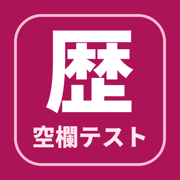
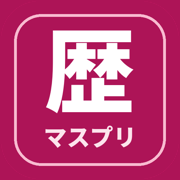
Add files via upload

Changed region(s): [[0.1667, 0.6944, 0.8056, 0.8333]]

diff --git a/rekishi-kuran.html b/rekishi-kuran.html
@@ -9,9 +9,9 @@
 <link rel="apple-touch-icon" href="apple-touch-icon.png">
 <meta name="apple-mobile-web-app-capable" content="yes">
 <meta name="mobile-web-app-capable" content="yes">
-<meta name="apple-mobile-web-app-title" content="歴史空欄テスト">
+<meta name="apple-mobile-web-app-title" content="歴史マスプリ">
 <meta name="apple-mobile-web-app-status-bar-style" content="default">
-<title>歴史マスター空欄テスト</title>
+<title>歴史マスプリテスト</title>
 <link rel="preconnect" href="https://fonts.googleapis.com">
 <link rel="preconnect" href="https://fonts.gstatic.com" crossorigin>
 <link href="https://fonts.googleapis.com/css2?family=Zen+Kaku+Gothic+New:wght@400;500;700;900&family=Zen+Maru+Gothic:wght@700;900&display=swap" rel="stylesheet">
@@ -395,7 +395,7 @@
 <!-- ===== トップ（範囲選択） ===== -->
 <section id="screen-setup">
   <div class="ui-panel">
-    <div class="ui-header-main round">🌸 学習空間 歴史マスターテスト（空欄式） 🌸</div>
+    <div class="ui-header-main round">🌸 学習空間 歴史マスプリテスト 🌸</div>
 
     <div class="action-section">
       <div class="opt-box">
@@ -412,6 +412,13 @@
           <input type="radio" name="tLimit" id="tl0" value="0" checked><label for="tl0">マイペース</label>
           <input type="radio" name="tLimit" id="tl30" value="30"><label for="tl30">30秒</label>
           <input type="radio" name="tLimit" id="tl20" value="20"><label for="tl20">20秒</label>
+        </div>
+      </div>
+      <div class="opt-box">
+        <div class="opt-title">出題順</div>
+        <div class="seg">
+          <input type="radio" name="qOrder" id="qoRand" value="random" checked><label for="qoRand">ランダム</label>
+          <input type="radio" name="qOrder" id="qoSeq" value="seq"><label for="qoSeq">順通り</label>
         </div>
       </div>
       <div class="side-row">
@@ -457,7 +464,7 @@
 <section id="screen-sheet" hidden>
   <div class="sheet-shell">
     <div class="sheet-head">
-      <h2 class="sheet-title" id="sheetTitle">歴史マスターテスト（空欄式）</h2>
+      <h2 class="sheet-title" id="sheetTitle">歴史マスプリテスト</h2>
       <div class="sheet-meta" id="sheetMeta"></div>
     </div>
     <div class="weak-box" id="weakBox" hidden></div>
@@ -550,7 +557,7 @@ const $ = id => document.getElementById(id);
 // 全問題に通し番号をつける
 const ALL = [];
 function hashKey(str){ let h = 0x811c9dc5; for(let i = 0; i < str.length; i++){ h ^= str.charCodeAt(i); h = Math.imul(h, 0x01000193) >>> 0; } return 'q' + h.toString(36); }
-Object.keys(rawData).forEach(id => rawData[id].forEach(m => ALL.push(Object.assign({key: hashKey(eraNames[id] + '|' + m.q + '|' + m.a), era: +id}, m))));
+Object.keys(rawData).forEach(id => rawData[id].forEach(m => ALL.push(Object.assign({key: hashKey(eraNames[id] + '|' + m.q + '|' + m.a), era: +id, idx: ALL.length}, m))));
 const BY_KEY = Object.fromEntries(ALL.map(x => [x.key, x]));
 
 function shuffle(a){ for(let i=a.length-1;i>0;i--){ const j=Math.floor(Math.random()*(i+1)); [a[i],a[j]]=[a[j],a[i]]; } return a; }
@@ -685,12 +692,14 @@ function startTimer(total){
 
 function startSheet(setup, fixedItems){
   actx();
-  const items = fixedItems || shuffle(setup.pool.slice()).slice(0, Math.min(setup.count, setup.pool.length));
+  // 順通り：元データの出現順に先頭から／ランダム：まぜて選ぶ
+  const ordered = setup.order === 'seq' ? setup.pool.slice().sort((a, b) => a.idx - b.idx) : shuffle(setup.pool.slice());
+  const items = fixedItems || ordered.slice(0, Math.min(setup.count, setup.pool.length));
   S = {setup, items, wrong: new Set(), shown: false, recId: null, retry: !!fixedItems, timeUp: false};
   lastSetup = setup;
   if(setup.fromNote){ S.retry = false; S.fromNote = true; }
-  $('sheetTitle').textContent = S.fromNote ? 'まちがいノートからテスト' : (S.retry ? '間違い直し' : '歴史マスターテスト（空欄式）');
-  $('sheetMeta').innerHTML = `範囲：<b>${esc(setup.range)}</b>　｜　<b>${items.length}</b>問　｜　${limitLabel(setup.limit)}`;
+  $('sheetTitle').textContent = S.fromNote ? 'まちがいノートからテスト' : (S.retry ? '間違い直し' : '歴史マスプリテスト');
+  $('sheetMeta').innerHTML = `範囲：<b>${esc(setup.range)}</b>　｜　<b>${items.length}</b>問　｜　${limitLabel(setup.limit)}${setup.order === 'seq' && !fixedItems ? '　｜　順通り' : ''}`;
   // 間違い直しのときは、苦手な時代の円グラフ
   const wb = $('weakBox');
   if(S.retry || S.fromNote){ renderWeak(items, wb, S.fromNote ? 'ノートから出した問題の時代の割合' : ''); wb.hidden = false; } else { wb.hidden = true; wb.innerHTML = ''; }
@@ -731,7 +740,8 @@ function goClick(b){
   startSheet({
     pool, eras, range: rangeLabelOf(eras),
     count: +document.querySelector('input[name=qCount]:checked').value,
-    limit: +document.querySelector('input[name=tLimit]:checked').value
+    limit: +document.querySelector('input[name=tLimit]:checked').value,
+    order: document.querySelector('input[name=qOrder]:checked').value
   });
 }
 $('btnGo').addEventListener('click', () => goClick($('btnGo')));
@@ -835,7 +845,7 @@ $('retryWrongBtn').addEventListener('click', () => {
   if(!wrong.length){
     const b = $('retryWrongBtn'); b.textContent = '先に、まちがえた番号を押してね'; setTimeout(() => updScore(), 1800); return;
   }
-  startSheet(Object.assign({}, S.setup, {fromNote: false}), shuffle(wrong.slice()));
+  startSheet(Object.assign({}, S.setup, {fromNote: false}), S.setup.order === 'seq' ? wrong.slice().sort((a, b) => a.idx - b.idx) : shuffle(wrong.slice()));
 });
 $('retryBtn').addEventListener('click', () => { if(lastSetup) startSheet(lastSetup); });
 $('backBtn').addEventListener('click', () => { show('setup'); updatePoolInfo(); });

diff --git a/sw.js b/sw.js
@@ -1,5 +1,5 @@
-// 歴史マスター空欄テスト：オフラインでも開けるようにするサービスワーカー
-const CACHE = 'rekishi-kuran-v2';
+// 歴史マスプリテスト：オフラインでも開けるようにするサービスワーカー
+const CACHE = 'rekishi-kuran-v3';
 const SHELL = ['./rekishi-kuran.html', './manifest.json', './icon-192.png', './icon-512.png', './apple-touch-icon.png'];
 self.addEventListener('install', e => { e.waitUntil(caches.open(CACHE).then(c => c.addAll(SHELL)).then(() => self.skipWaiting())); });
 self.addEventListener('activate', e => {
